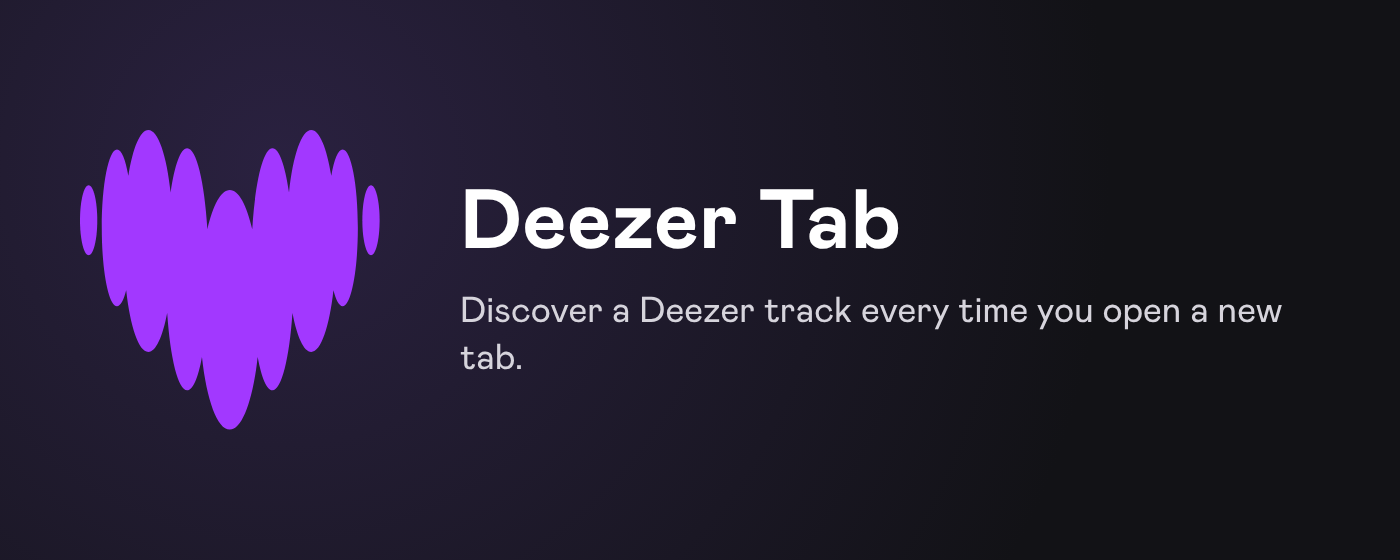
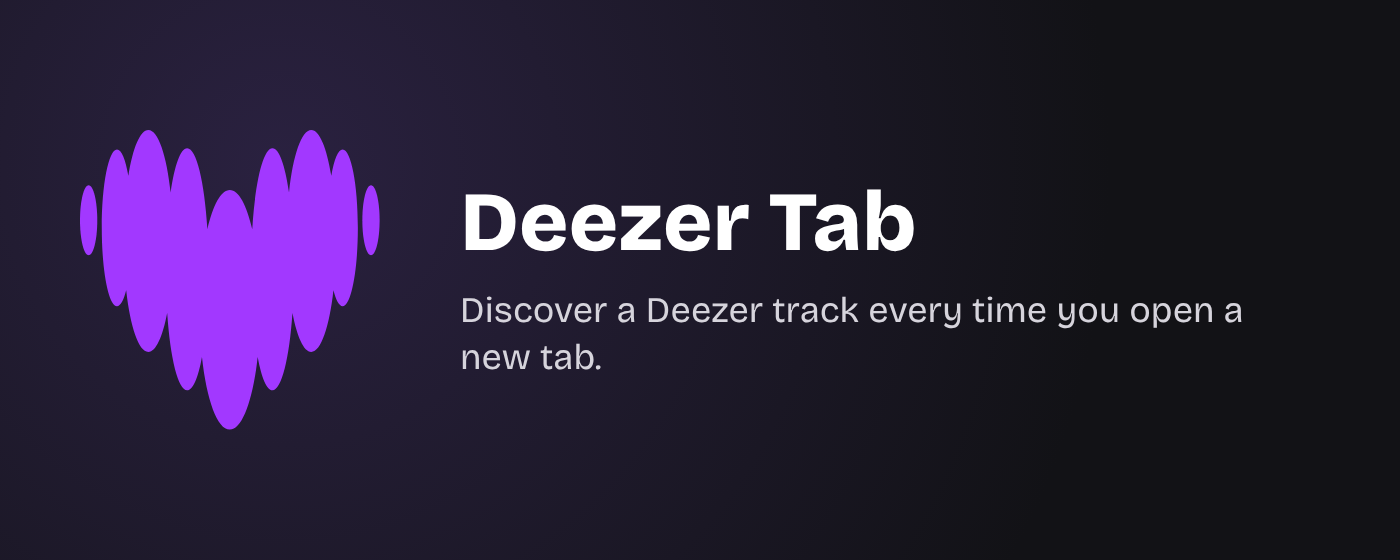
feat: store images in Bricolage Grotesque, the font of simon.duhem.fr
The name in weight 800 and the description in 400, from
@fontsource-variable/bricolage-grotesque (SIL Open Font License),
instead of the Deezer brand font, which did not fit Music Bridge.

Changed region(s): [[0.3379, 0.3339, 0.6757, 0.4554], [0.3379, 0.5161, 0.9214, 0.6071], [0.3071, 0.6071, 0.43, 0.6679]]

diff --git a/scripts/store-assets.ts b/scripts/store-assets.ts
@@ -26,21 +26,13 @@ const SOURCES: Record<string, { source: string; size: number }> = {
   'music-bridge': { source: 'extensions/music-bridge/public/icons/128.png', size: 128 },
 };
 const ICON_SIZES = [16, 32, 48, 128];
-const FONTS = 'extensions/dzr-tab/entrypoints/newtab/fonts';
+// Bricolage Grotesque (SIL Open Font License), the title font of simon.duhem.fr
+const FONT = 'node_modules/@fontsource-variable/bricolage-grotesque/files/bricolage-grotesque-latin-wght-normal.woff2';
 
 const dataUrl = async (file: string, type: string) => `data:${type};base64,${(await readFile(resolve(ROOT, file))).toString('base64')}`;
 const escape = (text: string) => text.replace(/[&<>"]/g, c => `&#${c.charCodeAt(0)};`);
 
-const fontFaces = (
-  await Promise.all(
-    (
-      [
-        ['regular', 400],
-        ['bold', 700],
-      ] as const
-    ).map(async ([name, weight]) => `@font-face { font-family: Deezer; font-weight: ${weight}; src: url(${await dataUrl(`${FONTS}/deezer-${name}.woff2`, 'font/woff2')}); }`),
-  )
-).join('\n');
+const fontFace = `@font-face { font-family: 'Bricolage Grotesque'; font-weight: 200 800; src: url(${await dataUrl(FONT, 'font/woff2')}); }`;
 
 /** Just the icon, on a transparent background */
 const iconOnly = (icon: string, size: number) => `<style>html, body { margin: 0; } img { display: block; width: ${size}px; height: ${size}px; }</style><img src="${icon}">`;
@@ -49,15 +41,15 @@ const iconOnly = (icon: string, size: number) => `<style>html, body { margin: 0;
 function tile(icon: string, name: string, description: string, { iconSize, nameSize, textSize, gap }: { iconSize: number; nameSize: number; textSize: number; gap: number }) {
   return `
     <style>
-      ${fontFaces}
+      ${fontFace}
       html, body { margin: 0; height: 100%; }
       body {
         display: flex; align-items: center; justify-content: center; gap: ${gap}px; padding: 0 ${gap}px; box-sizing: border-box;
-        background: radial-gradient(circle at 20% 30%, #2a2140, #121216 70%); color: #fff; font-family: Deezer, sans-serif;
+        background: radial-gradient(circle at 20% 30%, #2a2140, #121216 70%); color: #fff; font-family: 'Bricolage Grotesque', sans-serif;
       }
       img { width: ${iconSize}px; height: ${iconSize}px; flex: none; }
-      h1 { margin: 0 0 ${nameSize * 0.25}px; font-size: ${nameSize}px; line-height: 1.05; font-weight: 700; }
-      p { margin: 0; font-size: ${textSize}px; line-height: 1.3; color: #d6d4dc; }
+      h1 { margin: 0 0 ${nameSize * 0.25}px; font-size: ${nameSize}px; line-height: 1.05; font-weight: 800; }
+      p { margin: 0; font-size: ${textSize}px; line-height: 1.3; font-weight: 400; color: #d6d4dc; }
     </style>
     <img src="${icon}"><div><h1>${escape(name)}</h1><p>${escape(description)}</p></div>`;
 }

diff --git a/README.md b/README.md
@@ -52,7 +52,7 @@ The [CI](.github/workflows/ci.yml) workflow runs on every pull request and on pu
 
 ## Icons and store images
 
-Every extension has the same images, rendered from one source icon by `pnpm store-assets` (in Chromium, with Playwright):
+Every extension has the same images, rendered from one source icon by `pnpm store-assets` (in Chromium, with Playwright, in Bricolage Grotesque, the title font of simon.duhem.fr):
 
 - `public/icons/{16,32,48,128}.png`: the manifest icons;
 - `medias/logo.png` (300×300), `medias/promo-small.png` (440×280) and `medias/promo-large.png` (1400×560): the logo and the promotional tiles of the store listings, with the extension's English name and description.
